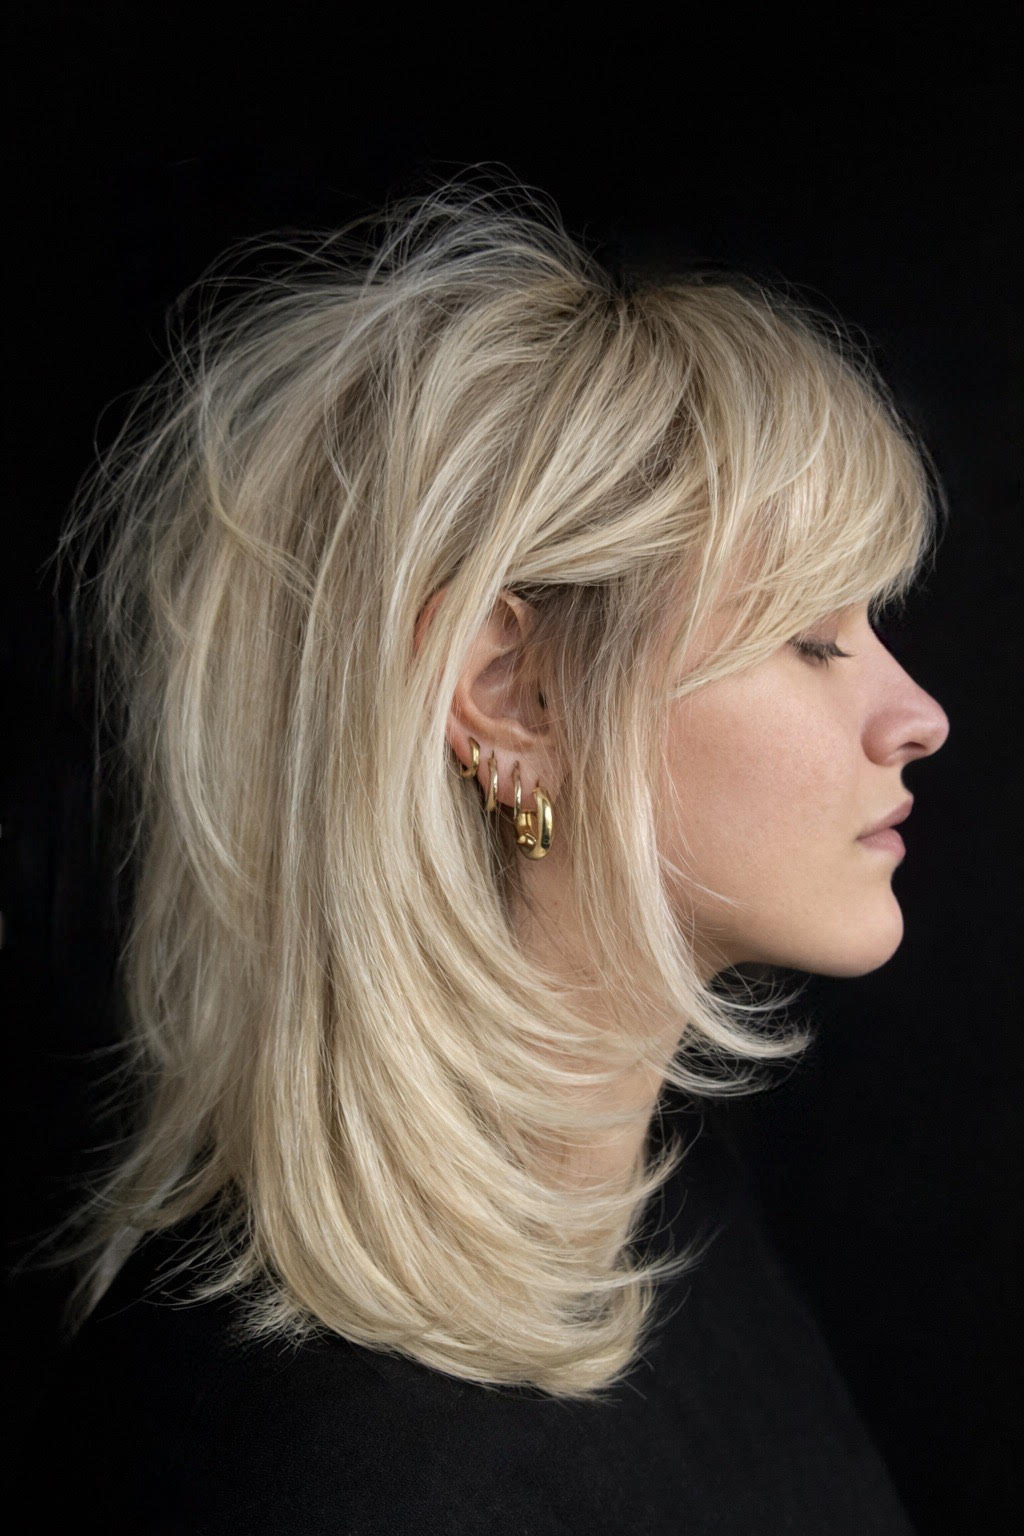
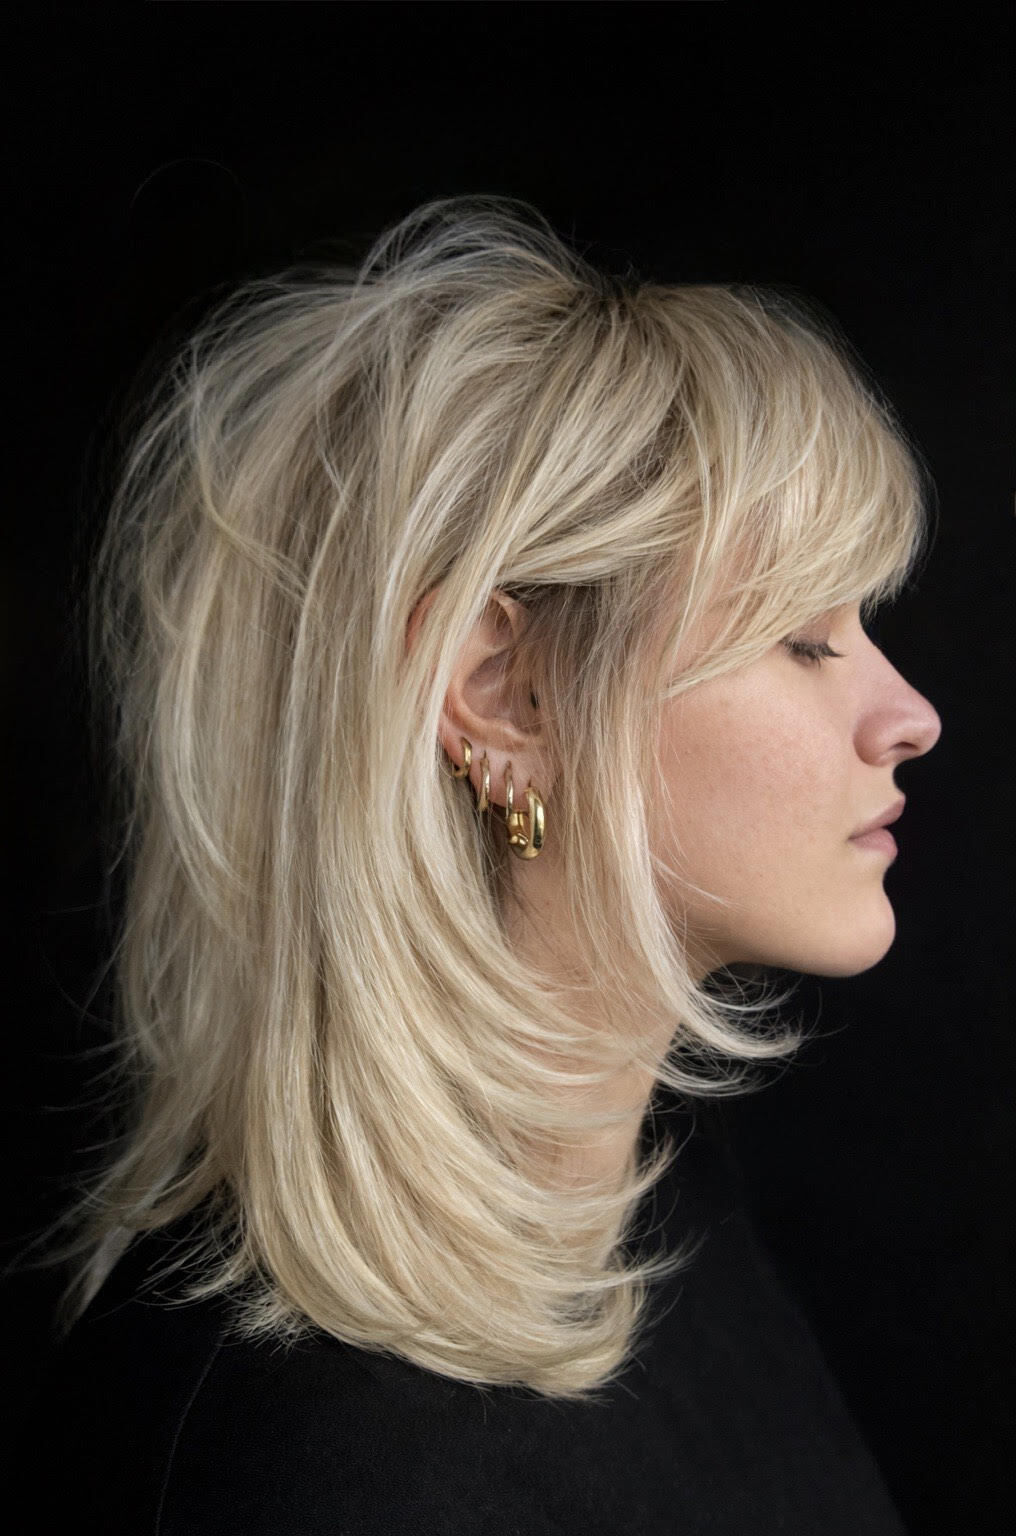
services

diff --git a/src/app/[locale]/services/page.tsx b/src/app/[locale]/services/page.tsx
@@ -57,7 +57,7 @@ export default async function ServicesPage({
       <SiteNavbar locale={locale} />
       <div className="lg:max-w-8xl w-full px-4 pt-12 pb-10 lg:ml-auto">
         <section className="grid gap-0 min-[769px]:grid-cols-[minmax(0,1.3fr)_minmax(0,2fr)]">
-          <div className="relative h-[360px] w-full overflow-hidden rounded-3xl border border-white/5 bg-[url('/services.jpg')] bg-contain bg-center bg-no-repeat shadow-[0_24px_80px_rgba(0,0,0,0.9)] sm:h-[480px] lg:h-[700px]">
+          <div className="relative h-[360px] w-full overflow-hidden rounded-3xl bg-[url('/services.jpg')] bg-[length:62%] bg-center bg-no-repeat sm:h-[480px] lg:h-[700px] lg:bg-[length:101%]">
             <div className="pointer-events-none absolute inset-0 bg-[radial-gradient(ellipse_at_center,rgba(0,0,0,0)_40%,rgba(0,0,0,0.75)_100%)]" />
             <div className="pointer-events-none absolute inset-0 bg-[radial-gradient(ellipse_at_80%_85%,rgba(0,0,0,0.85)_0%,rgba(0,0,0,0.0)_55%)]" />
           </div>
@@ -116,7 +116,7 @@ export default async function ServicesPage({
                           <ArrowRightCircleIcon className="mt-2 ml-auto h-6 w-6" />
                         </div>
 
-                        <div className="absolute inset-0 flex h-full w-full [transform:rotateY(180deg)] flex-col justify-center rounded-3xl bg-gradient-to-br from-white via-zinc-950 to-black px-5 py-5 text-xs opacity-0 transition-opacity duration-700 [backface-visibility:hidden] group-hover:opacity-100">
+                        <div className="absolute inset-0 flex h-full w-full [transform:rotateY(180deg)] flex-col justify-center rounded-3xl px-5 py-5 text-xs opacity-0 transition-opacity duration-700 [backface-visibility:hidden] group-hover:opacity-100">
                           <h3 className="flex items-center gap-2 text-2xl font-light text-white">
                             {/* <Icon className="h-5 w-5" /> */}
                             <span>{tab.label}</span>
